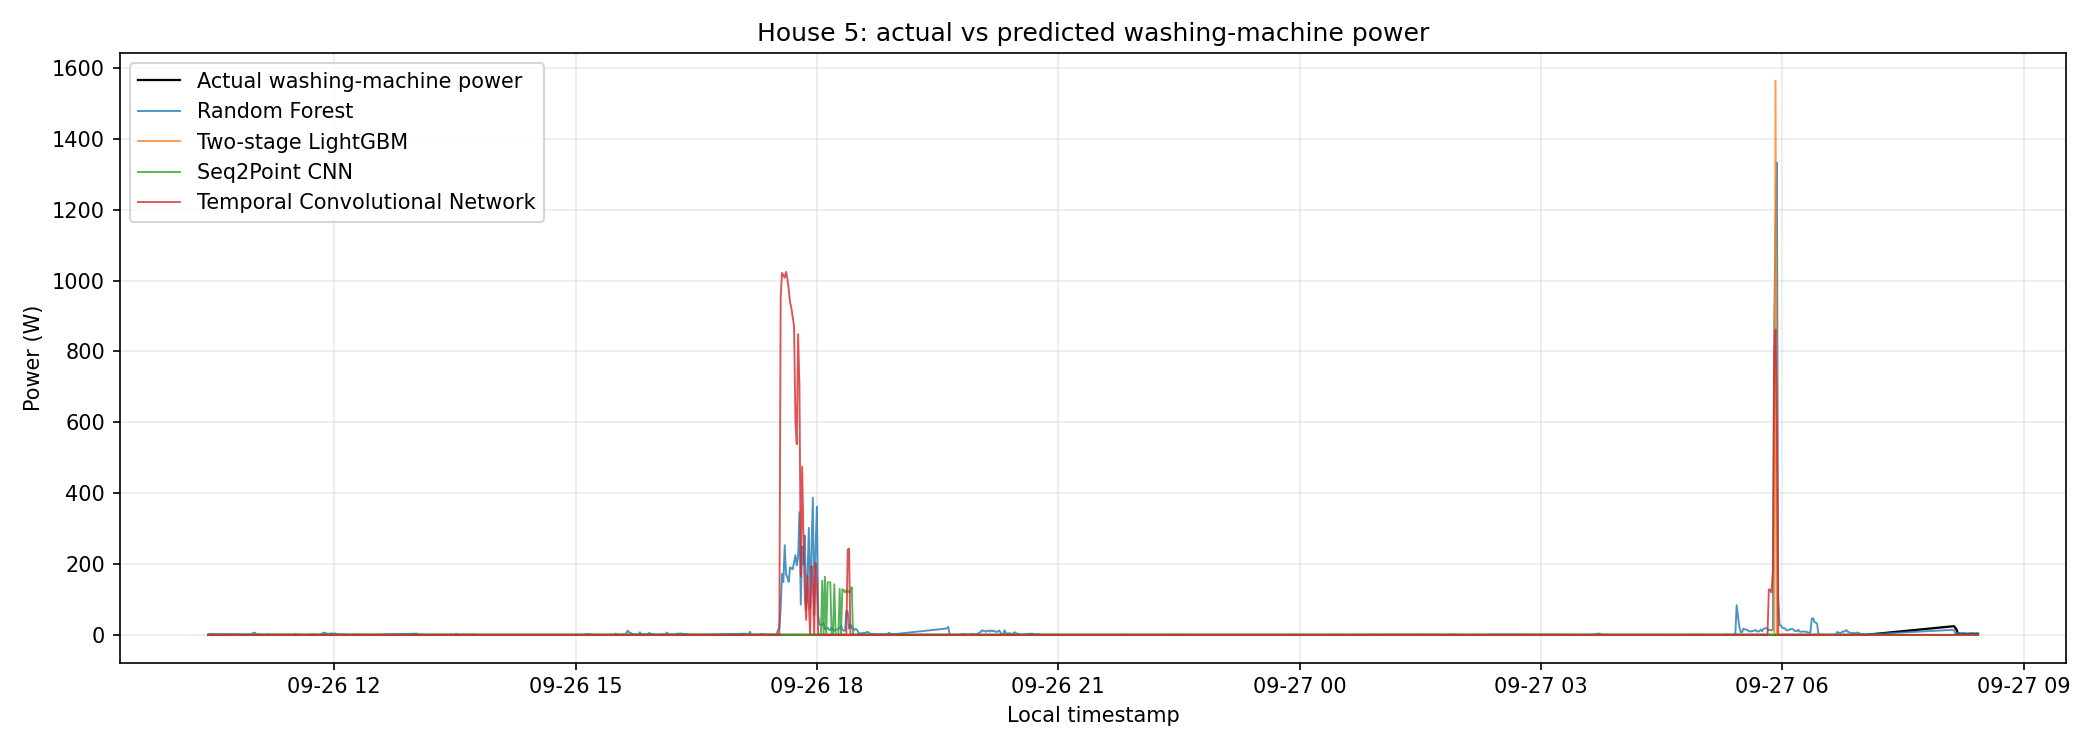
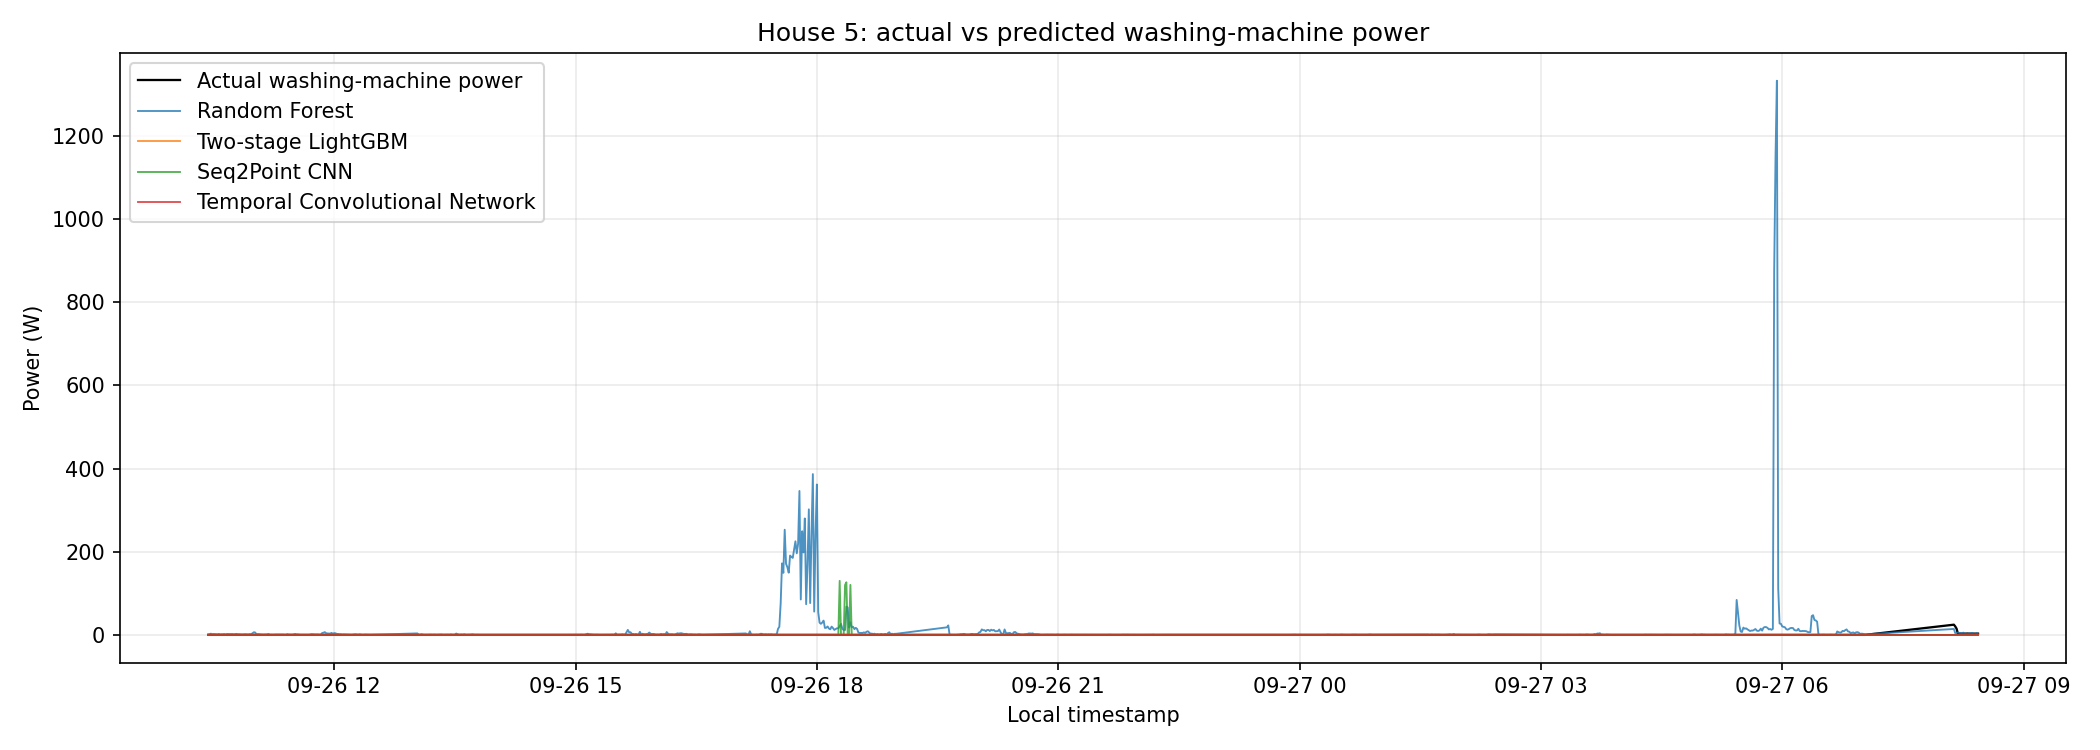
Improve TCN imbalance and threshold calibration
Moderate TCN class weighting, clip training gradients, and choose inference thresholds on validation F1/MAE trade-offs. Record updated held-out evaluation and limitations.

diff --git a/src/section3_disaggregation.py b/src/section3_disaggregation.py
@@ -41,6 +41,7 @@ TCN_BURN_IN = TCN_RECEPTIVE_FIELD - 1
 TCN_SEQUENCE_STRIDE = TCN_SEQUENCE_LENGTH - TCN_BURN_IN
 MAX_TCN_SEQUENCES_PER_HOUSE = 6_000
 THRESHOLD_CANDIDATES = np.arange(0.10, 1.00, 0.01)
+MIN_VALIDATION_F1_RETENTION = 0.80
 
 
 class Seq2PointCNN(nn.Module):
@@ -382,10 +383,15 @@ def fit_tcn(
     optimizer = torch.optim.AdamW(
         model.parameters(), lr=1e-3, weight_decay=1e-4
     )
+    positive_weight = min(
+        float(np.sqrt(negative_count / positive_count)), 10.0
+    )
+    print(
+        "TCN activity positive weight: "
+        f"{positive_weight:.2f} (square-root imbalance, capped at 10)."
+    )
     activity_loss = nn.BCEWithLogitsLoss(
-        pos_weight=torch.tensor(
-            min(negative_count / positive_count, 30.0), dtype=torch.float32
-        )
+        pos_weight=torch.tensor(positive_weight, dtype=torch.float32)
     )
     power_loss = nn.SmoothL1Loss()
     dataset = TensorDataset(
@@ -419,6 +425,7 @@ def fit_tcn(
                     scored_target_power[scored_active],
                 )
             loss.backward()
+            torch.nn.utils.clip_grad_norm_(model.parameters(), max_norm=1.0)
             optimizer.step()
             total_loss += float(loss.detach()) * len(sequence)
         print(
@@ -518,30 +525,41 @@ def calibrate_threshold(
             (probabilities >= threshold)
             & (conditional_power >= WASHING_MACHINE_ACTIVE_THRESHOLD_W)
         )
+        predicted_positive_count = int(np.count_nonzero(predicted_active))
+        true_positive_count = int(np.count_nonzero(predicted_active & actual_active))
+        precision = (
+            true_positive_count / predicted_positive_count
+            if predicted_positive_count
+            else 0.0
+        )
+        recall = true_positive_count / int(np.count_nonzero(actual_active))
+        f1 = (
+            2 * precision * recall / (precision + recall)
+            if precision + recall
+            else 0.0
+        )
         prediction = np.where(predicted_active, conditional_power, 0.0)
+        error = actual - prediction
         records.append(
             {
                 "model": model_name,
                 "probability_threshold": float(threshold),
-                "validation_active_precision": precision_score(
-                    actual_active, predicted_active, zero_division=0
-                ),
-                "validation_active_recall": recall_score(
-                    actual_active, predicted_active, zero_division=0
-                ),
-                "validation_active_f1": f1_score(
-                    actual_active, predicted_active, zero_division=0
-                ),
-                "validation_mae_w": mean_absolute_error(actual, prediction),
-                "validation_rmse_w": np.sqrt(
-                    mean_squared_error(actual, prediction)
-                ),
+                "validation_active_precision": precision,
+                "validation_active_recall": recall,
+                "validation_active_f1": f1,
+                "validation_mae_w": np.mean(np.abs(error)),
+                "validation_rmse_w": np.sqrt(np.mean(np.square(error))),
             }
         )
     results = pd.DataFrame(records)
-    best = results.sort_values(
-        ["validation_active_f1", "validation_mae_w"],
-        ascending=[False, True],
+    best_f1 = results["validation_active_f1"].max()
+    near_best = results[
+        results["validation_active_f1"]
+        >= best_f1 * MIN_VALIDATION_F1_RETENTION
+    ]
+    best = near_best.sort_values(
+        ["validation_mae_w", "validation_active_f1"],
+        ascending=[True, False],
     ).iloc[0]
     return float(best["probability_threshold"]), results
 
@@ -789,7 +807,9 @@ def run() -> None:
         f"{TCN_RECEPTIVE_FIELD} minutes)."
     )
     print(
-        f"Selected thresholds: LightGBM={lgbm_threshold:.2f}, "
+        f"Selected thresholds (within {MIN_VALIDATION_F1_RETENTION:.0%} of "
+        f"best validation active F1, "
+        f"then lowest validation MAE): LightGBM={lgbm_threshold:.2f}, "
         f"Seq2Point={cnn_threshold:.2f}, TCN={tcn_threshold:.2f}."
     )
     print(results.to_string(index=False))

diff --git a/RESULTS.md b/RESULTS.md
@@ -56,7 +56,7 @@ All models predict one-minute washing-machine power for House 5 and are scored o
 - **Seq2Point CNN:** one-dimensional convolutional network that maps a 31-minute trailing aggregate window to the washing-machine power at the window’s last minute. This causal form uses no future readings.
 - **Temporal Convolutional Network (TCN):** causal dilated convolutions predict activity and power at each minute in a 128-minute sequence. Its 31-minute receptive field prevents future readings from influencing a timestep’s prediction. Sequences are split at missing/discontinuous minutes; the first 30 sequence positions are excluded from training loss so predictions have full historical context.
 
-To counter the very small active class, Random Forest, LightGBM, and Seq2Point training examples are sampled by household with up to ten off windows per active window, capped at 50,000 samples per home. TCN training uses contiguous 128-minute sequences, sampled by active-containing versus all-off sequence at up to a 1:10 ratio and capped at 6,000 per home. For learned activity models, thresholds from 0.10 to 0.99 are compared on House 3; the one maximizing active-minute F1 is selected, with MAE as the tie-breaker. Selected thresholds were 0.92 for LightGBM, 0.60 for Seq2Point, and 0.56 for TCN. All model comparisons below use the same held-out minutes, but they are not claims of broad generalization: only one home is held out.
+To counter the very small active class, Random Forest, LightGBM, and Seq2Point training examples are sampled by household with up to ten off windows per active window, capped at 50,000 samples per home. TCN training uses contiguous 128-minute sequences, sampled by active-containing versus all-off sequence at up to a 1:10 ratio and capped at 6,000 per home. Its activity-loss weight uses the square root of the sampled off/active-minute ratio (capped at 10), and gradient clipping is applied during optimization. The TCN power head is trained on active minutes; the activity classifier gates its power estimate at inference. For each learned activity model, thresholds from 0.10 to 0.99 are compared on House 3; among settings within 80% of the best validation active F1, the setting with the lowest validation MAE is selected. This explicitly trades some active detection for lower power error, rather than choosing a threshold solely to maximize F1. All model comparisons below use the same held-out minutes, but they are not claims of broad generalization: only one home is held out.
 
 ### Metrics and results
 
@@ -66,13 +66,13 @@ MAE/RMSE measure power error in watts. Active precision, recall and F1 use the 1
 |---|---:|---:|---:|---:|---:|---:|---:|---:|
 | Always off | **9.63** | **91.63** | -0.011 | 0.000 | 0.000 | 0.000 | 0.00 | -100.0% |
 | Random Forest | 18.92 | 95.69 | -0.103 | 0.086 | **0.423** | **0.143** | 115.91 | +37.5% |
-| Two-stage LightGBM | **12.57** | **101.76** | **-0.247** | 0.218 | 0.045 | 0.075 | 37.65 | -55.3% |
-| Seq2Point CNN | 12.64 | 103.03 | -0.278 | **0.231** | 0.083 | 0.123 | 35.09 | -58.4% |
-| Temporal Convolutional Network | 22.97 | 135.29 | -1.204 | 0.118 | 0.127 | 0.122 | 146.91 | +74.3% |
+| Two-stage LightGBM | 11.01 | 97.07 | -0.135 | 0.219 | 0.018 | 0.033 | 17.71 | -79.0% |
+| Seq2Point CNN | **10.98** | **96.58** | **-0.123** | **0.226** | 0.040 | 0.069 | 15.59 | -81.5% |
+| Temporal Convolutional Network | 12.64 | 112.67 | -0.529 | 0.181 | 0.015 | 0.028 | 31.62 | -62.5% |
 
 ### Interpretation
 
-The TCN did not improve this held-out result: its MAE/RMSE and energy overestimate were the worst of the learned models. LightGBM had the lowest MAE/RMSE among learned models, while Random Forest had the highest active recall and F1 and the closest total-energy estimate. No learned model beat the always-off baseline on MAE/RMSE. The baseline is strong because nearly all observed minutes are inactive; a low average error alone is therefore not evidence of useful appliance disaggregation. None of the tested learned models is reliable enough for customer-facing estimates.
+The TCN training and threshold calibration were strengthened after an initial run produced 22.97 W MAE and a +74.3% energy overestimate. On the same held-out evaluation household, the revised run reduced TCN MAE to 12.64 W and changed the energy error to -62.5%. This is a material reduction in the initial error, but it is **not a complete fix**: the TCN still has 112.67 W RMSE, very low active F1 (0.028), and substantial energy underestimation. Seq2Point has the lowest learned-model MAE/RMSE in this rerun, while Random Forest has the highest active recall/F1 and closest total-energy estimate. No learned model beat the always-off baseline on MAE/RMSE. The baseline is strong because nearly all observed minutes are inactive; a low average error alone is therefore not evidence of useful appliance disaggregation. None of the tested learned models is reliable enough for customer-facing estimates.
 
 The evaluation uses one held-out home, so its score is a case study rather than a stable estimate of performance across REFIT households. The activity threshold is tuned on one training-side validation home; more households are needed for robust threshold/model selection.
 
@@ -82,4 +82,4 @@ The evaluation uses one held-out home, so its score is a case study rather than 
 
 Failure cases include simultaneous household loads that obscure the washing-machine signature, differences in appliance power patterns between homes, and short/low-power phases that are difficult to classify. Missing intervals and official cleaned-data processing also affect the target labels. The active class is small even after stratified sampling, and fitting across three homes does not capture all household behavior.
 
-Further work should evaluate several held-out households, compare thresholds using multiple training-side validation homes, and investigate household-specific adaptation. The TCN comparison below tests whether causal sequence-to-sequence learning helps on this split; its added complexity is justified only if it improves useful held-out metrics. Do not deploy the current models without broader validation.
+Further work should evaluate several held-out households, compare thresholds using multiple training-side validation homes, test TCN checkpoints with time-based early stopping, and investigate household-specific adaptation. The TCN comparison below tests whether causal sequence-to-sequence learning helps on this split; its added complexity is justified only if it improves useful held-out metrics. Do not deploy the current models without broader validation.
